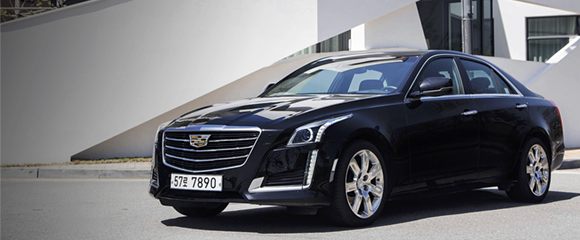
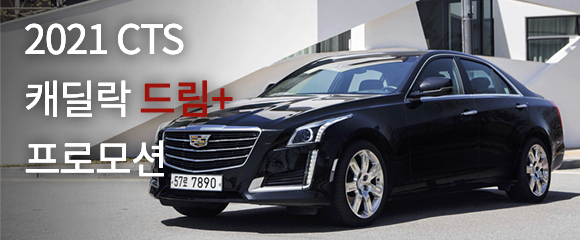
프로모션 배너 data 화

Changed region(s): [[0.031, 0.3208, 0.4034, 0.4958], [0.031, 0.0875, 0.3414, 0.2625], [0.031, 0.5833, 0.3103, 0.7583]]

diff --git a/js/app.js b/js/app.js
@@ -7,6 +7,7 @@ const $visual = document.querySelector(".visual");
 const $carousel = document.querySelector(".carousel");
 const $indicator = document.querySelectorAll(".indicator > li");
 const $lineUp = document.querySelector(".lineUp ul.row");
+const $promotion = document.querySelector(".promotion ul");
 const $mapView = document.querySelector(".mapView");
 const $storeList = document.querySelector(".storeList");
 // data
@@ -85,7 +86,19 @@ const lineUpBanner = [
     imgAlt: "V-SERIES 대표 차종",
   },
 ];
-
+// banner
+const bannerData = [
+  {
+    bannerType: "PROMOTION",
+    bannerLink: "https://www.cadillac.co.kr/vehicle/xt5/vehicle.php",
+    imgUrl: "./images/promotion1.png",
+  },
+  {
+    bannerType: "EVENT",
+    bannerLink: "https://www.cadillac.co.kr/vehicle/xt5/vehicle.php",
+    imgUrl: "./images/promotion2.png",
+  },
+];
 // 전시장 데이터
 
 const locationListData = [
@@ -260,6 +273,22 @@ const lineUpRender = ($lineUp, lineUpBanner) => {
     .join("")}`;
 };
 
+const bannerRender = ($promotion, bannerData) => {
+  $promotion.innerHTML = `${bannerData
+    .map(
+      ({
+        bannerType,
+        bannerLink,
+        imgUrl,
+      }) => `<li class="promotion2 col-6 m-col-4 s-col-4 xs-col-2">
+  <a href="${bannerLink}">
+    <h2 class="division">${bannerType}</h2>
+    <img src="${imgUrl}" alt="TEST DRIVE THE BEST SEDAN DRIVE 시승 이벤트">
+  </a>
+</li>`
+    )
+    .join("")}`;
+};
 const showroomRender = ($storeList, locationListData) => {
   $storeList.innerHTML = `${locationListData
     .map(
@@ -313,8 +342,9 @@ let marker = new kakao.maps.Marker({
 });
 
 window.onload = () => {
-  lineUpRender($lineUp, lineUpBanner);
   carouselRender($carousel, carouselBanner);
+  lineUpRender($lineUp, lineUpBanner);
+  bannerRender($promotion, bannerData);
   showroomRender($storeList, locationListData);
   move(++currentBanner);
 

diff --git a/index.html b/index.html
@@ -254,20 +254,18 @@
       </section>
       <section class="promotion">
         <ul class="container row">
-          <li class="promotion1 col-6 m-col-4 s-col-4 xs-col-2">
+          <!-- <li class="promotion1 col-6 m-col-4 s-col-4 xs-col-2">
             <a href="https://www.cadillac.co.kr/vehicle/xt5/vehicle.php">
               <h2 class="division">PROMOTION</h2>
-              <p class="description">2020 CTS<br>캐딜락 <span class="colorMain">드림+</span><br>프로모션</p>
-              <img src="./images/promotion1.png" alt="프로모션 배경">
+              <img src="./images/promotion1.png" alt="2021 CTS 캐딜락 드림+ 프로모션">
             </a>
           </li>
           <li class="promotion2 col-6 m-col-4 s-col-4 xs-col-2">
             <a href="https://www.cadillac.co.kr/vehicle/xt5/vehicle.php">
               <h2 class="division">EVENT</h2>
-              <p class="description"><span class="colorPoint1">TEST DRIVE</span><br>THE BEST SEDAN DRIVE<br>시승 이벤트</p>
-              <img src="./images/promotion2.png" alt="이벤트 배경">
+              <img src="./images/promotion2.png" alt="TEST DRIVE THE BEST SEDAN DRIVE 시승 이벤트">
             </a>
-          </li>
+          </li> -->
         </ul>
       </section>
       <section class="sns">
